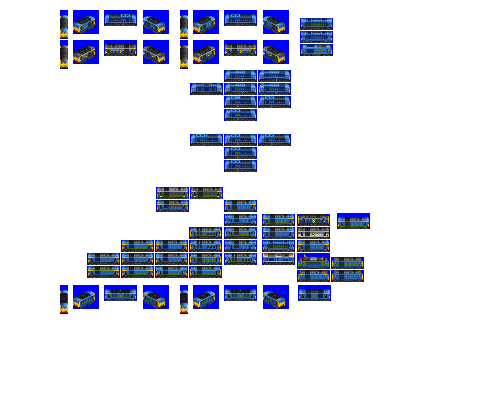
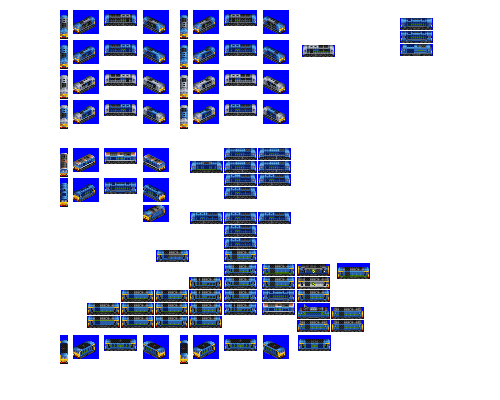
Change: additional liveries for Doineann

Changed region(s): [[0.12, 0.03, 0.75, 0.93], [0.78, 0.03, 0.87, 0.15], [0.6, 0.03, 0.69, 0.15]]

diff --git a/src/vehicles/doineann.py b/src/vehicles/doineann.py
@@ -17,11 +17,12 @@ def main(roster_id):
         random_reverse=True,
         gen=5,
         intro_year_offset=-4,  # let's be a little earlier for this one
+        additional_liveries=["BANGER_BLUE", "SWOOSH_LESS", "SWOOSH"],
         default_livery_extra_docs_examples=[
-            ("COLOUR_PALE_GREEN", "COLOUR_GREY"),
+            ("COLOUR_ORANGE", "COLOUR_WHITE"),
             ("COLOUR_PINK", "COLOUR_WHITE"),
         ],
-        sprites_complete=False,
+        sprites_complete=True,
     )
 
     consist.add_unit(
